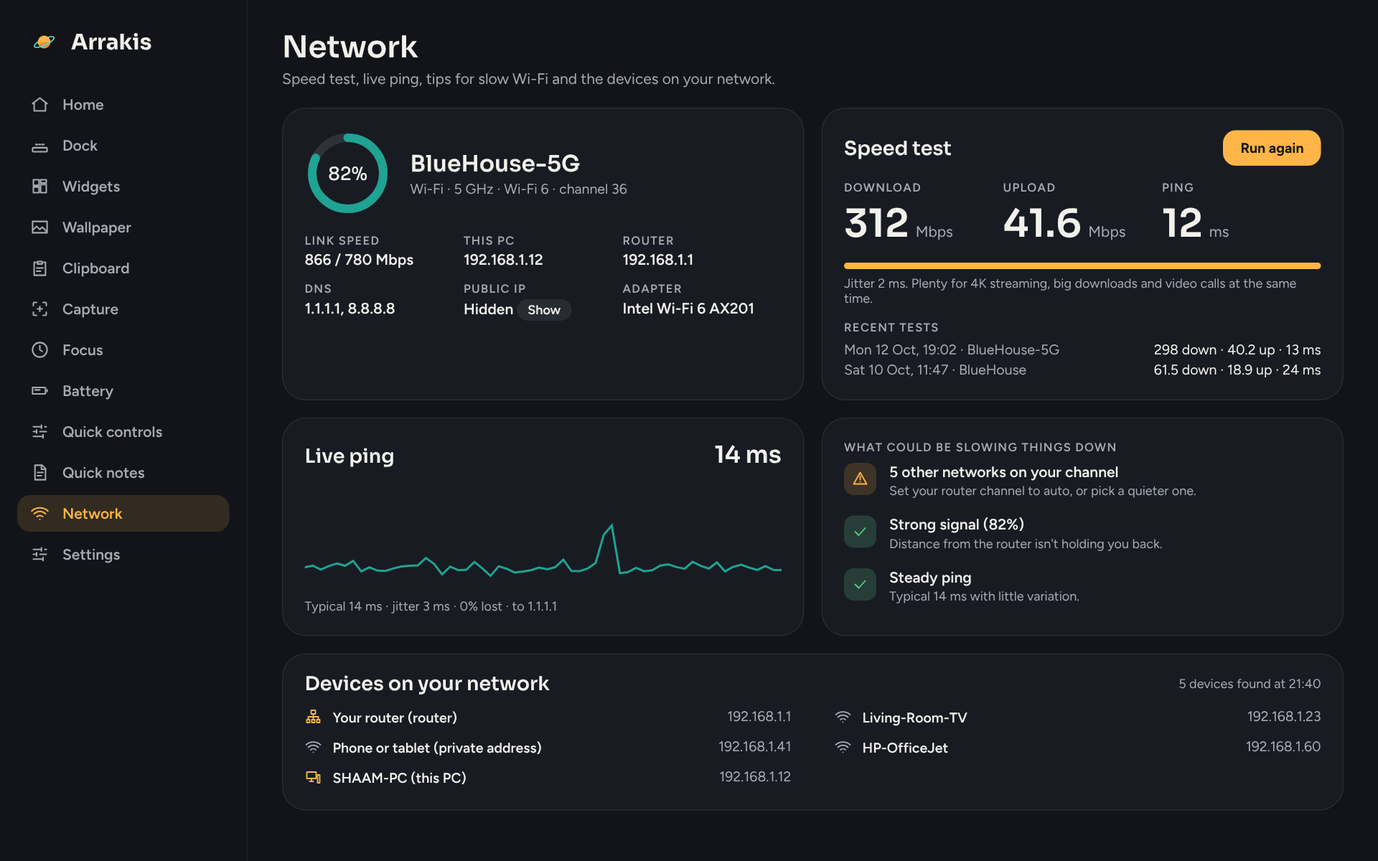
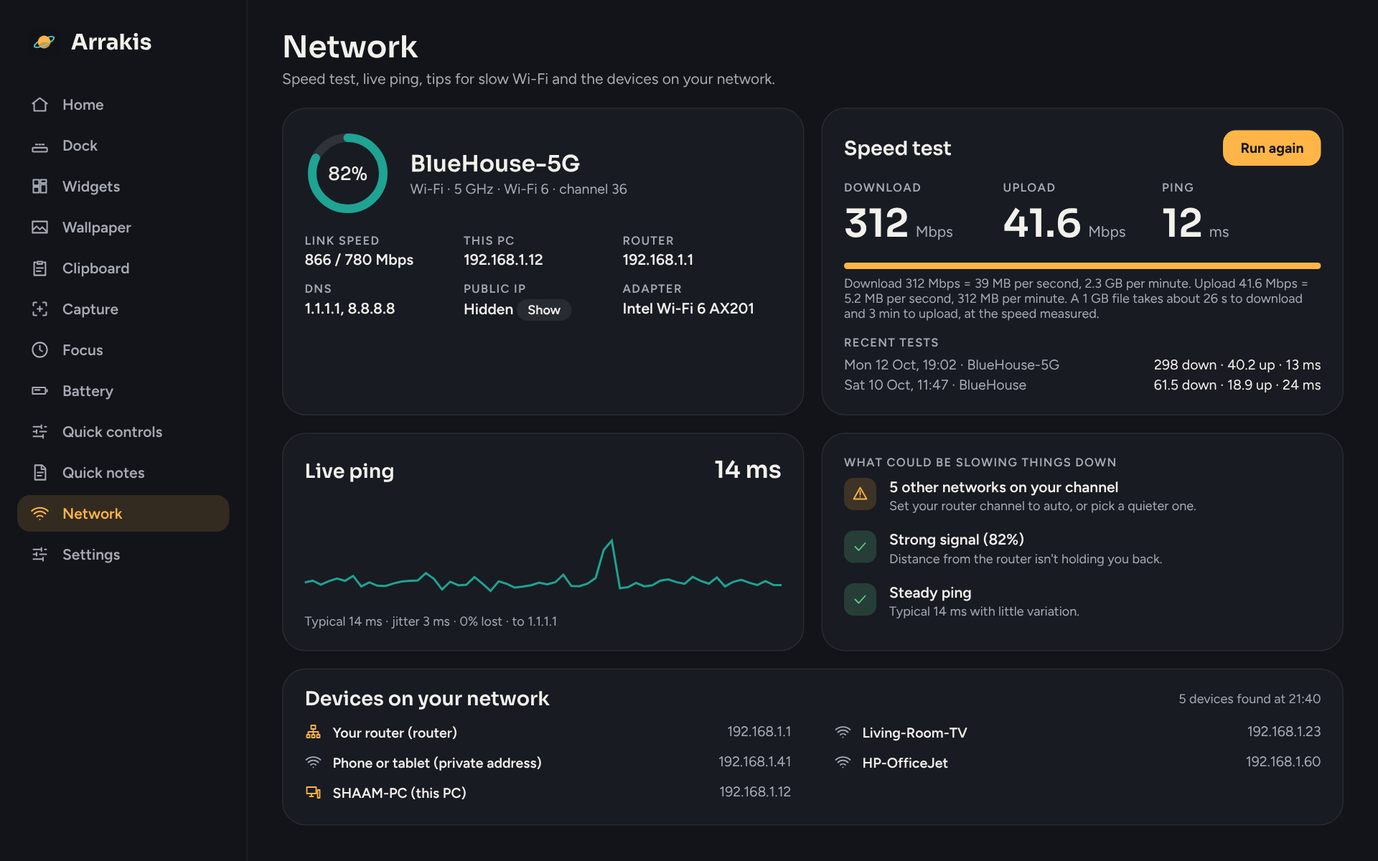
Arrakis 1.4.0: smoother dock with styles, themes and positions; taskbar on every screen; Wallhaven; notes as files; real speed test rates

diff --git a/docs/index.html b/docs/index.html
@@ -202,7 +202,7 @@ footer a{color:var(--muted);text-decoration:none;margin-left:16px}footer a:hover
 <header class="hero" id="top">
   <div class="glow" aria-hidden="true"></div>
   <div class="wrap">
-    <a class="badge" href="#new"><span>New in 1.3</span>Quick controls, notes and network tools</a>
+    <a class="badge" href="#new"><span>New in 1.4</span>A smoother dock, five styles and Wallhaven</a>
     <h1>Your whole desktop,<br><span class="grad">finally yours.</span></h1>
     <p class="lead">A dock, desktop widgets, a wallpaper that follows the sun and the weather, a clipboard with snippets, a full screenshot studio, a focus timer, battery health, quick controls, quick notes and network tools, with a command bar to reach it all. For Windows 10 and 11. Switch on only what you want.</p>
     <div class="cta">
@@ -273,8 +273,8 @@ footer a{color:var(--muted);text-decoration:none;margin-left:16px}footer a:hover
       <div class="frame"><img src="images/hub.png" width="1920" height="1200" alt="The Arrakis hub with a card and switch for each module"></div>
     </div>
     <div class="panel" role="tabpanel" id="p-dock" aria-labelledby="t-dock" hidden>
-      <div><h3>Dock</h3><p>Pinned and open apps that magnify as you glide across them. Rest on one to see live previews of its windows.</p>
-        <ul><li>Window previews and window counts</li><li>Folder stacks, starting with Downloads</li><li>Drag anything on to pin it</li><li>A dock on every screen if you like</li><li>Can replace the taskbar, and always gives it back</li></ul></div>
+      <div><h3>Dock</h3><p>Pinned and open apps that glide smoothly as you move across them. Rest on one to see live previews of its windows.</p>
+        <ul><li>Five styles, six themes, bottom, left or right</li><li>Magnify, Zoom, Lift, or no motion at all</li><li>Window previews, counts and folder stacks</li><li>A dock on every screen</li><li>Replaces the taskbar on every screen, and always gives it back</li></ul></div>
       <div class="frame"><img src="images/dock.png" width="1920" height="1200" alt="The dock with live previews of two browser windows and the Downloads folder stack open" loading="lazy"></div>
     </div>
     <div class="panel" role="tabpanel" id="p-widgets" aria-labelledby="t-widgets" hidden>
@@ -285,7 +285,7 @@ footer a{color:var(--muted);text-decoration:none;margin-left:16px}footer a:hover
     </div>
     <div class="panel" role="tabpanel" id="p-wall" aria-labelledby="t-wall" hidden>
       <div><h3>Wallpaper</h3><p>Dawn, day, sunset and night scenes drawn at your screen's exact size, changing with real sunrise and sunset where you live.</p>
-        <ul><li>Rain, snow, fog and storms when it's happening outside</li><li>A sun that moves across the sky</li><li>Or your own photos, or Bing's photo of the day</li><li>Every screen gets its own</li></ul></div>
+        <ul><li>Rain, snow, fog and storms when it's happening outside</li><li>A sun that moves across the sky</li><li>Thousands of wallpapers from Wallhaven, set in one click</li><li>Or your own photos, or Bing's photo of the day</li><li>Every screen gets its own</li></ul></div>
       <div class="frame"><img src="images/wallpaper.png" width="1920" height="1200" alt="The wallpaper page with dawn, day, sunset and night scenes" loading="lazy"></div>
     </div>
     <div class="panel" role="tabpanel" id="p-clip" aria-labelledby="t-clip" hidden>
@@ -320,7 +320,7 @@ footer a{color:var(--muted);text-decoration:none;margin-left:16px}footer a:hover
     </div>
     <div class="panel" role="tabpanel" id="p-notes" aria-labelledby="t-notes" hidden>
       <div><h3>Quick notes</h3><p>A fresh note from anywhere, saved as you type.</p>
-        <ul><li>Search every note, here or in the command bar</li><li>Six colours</li><li>Pin any note to the desktop as a sticky</li><li>Edit stickies right where they are</li></ul>
+        <ul><li>Search every note, here or in the command bar</li><li>Saved as text files in a folder you choose</li><li>Pin any note to the desktop as a sticky</li><li>Six colours</li></ul>
         <span class="shortcut"><kbd>Ctrl</kbd><kbd>Alt</kbd><kbd>N</kbd> new note</span></div>
       <div class="frame"><img src="images/notes.png" width="1920" height="1200" alt="The Quick notes window with a note open and two stickies pinned on the desktop" loading="lazy"></div>
     </div>
@@ -336,8 +336,37 @@ footer a{color:var(--muted);text-decoration:none;margin-left:16px}footer a:hover
 <section id="new">
   <div class="wrap">
     <div class="center reveal">
-      <p class="kicker">New in 1.3</p>
-      <h2>Three new modules.</h2>
+      <p class="kicker">New in 1.4</p>
+      <h2>A dock that feels right.</h2>
+      <p class="intro">Rebuilt to glide smoothly, with styles, themes and positions to make it yours. Plus Wallhaven wallpapers, notes as files, and a taskbar fix for multiple screens.</p>
+    </div>
+
+    <div class="frame reveal" style="margin-top:36px"><img src="images/dock-styles.png" width="1920" height="1200" alt="Eight dock looks: floating with magnify, minimal pill, islands, edge bar, compact bar, a light dock on the left, an accent dock on the right and a clear dock" loading="lazy"></div>
+
+    <div class="toolgrid reveal">
+      <div><h3>Smooth</h3><p>Icons ease in and out every frame and grow on your graphics card. Or switch motion off entirely.</p></div>
+      <div><h3>Your style</h3><p>Floating, Minimal pill, Islands, Edge bar or Compact bar. Dark, light, solid, clear or accent. Bottom, left or right.</p></div>
+      <div><h3>Every screen</h3><p>Hide the taskbar on each screen with a dock, with maximised windows using the full screen. Put it back in one click.</p></div>
+    </div>
+
+    <div class="studio-grid reveal">
+      <div class="studio-copy">
+        <h3>Wallhaven, built in</h3>
+        <p>Scroll through thousands of wallpapers right on the Wallpaper page, and set one on every screen, or just one, in a click.</p>
+        <ul class="ticks"><li>Top, Hot, Latest, Random or search</li><li>Only ones that fit your screen</li><li>A popular new one each day, if you like</li><li>Safe for work, no account needed</li></ul>
+      </div>
+      <div class="frame"><img src="images/wallhaven.png" width="1920" height="1200" alt="The Wallhaven gallery on the Wallpaper page" loading="lazy"></div>
+    </div>
+
+    <div class="toolgrid reveal">
+      <div><h3>Notes as files</h3><p>Every Quick note is saved as a .txt file in a folder you choose, like OneDrive. One click opens it.</p></div>
+      <div><h3>Real speeds</h3><p>Speed test results in MB per second and GB per minute, and how long a 1 GB file takes.</p></div>
+      <div><h3>Updates itself</h3><p>Already on 1.3? Arrakis installs 1.4 for you the next time it starts.</p></div>
+    </div>
+
+    <div class="center reveal" style="margin-top:96px">
+      <p class="kicker">Added in 1.3</p>
+      <h2 style="font-size:clamp(26px,3.4vw,36px)">Three new modules.</h2>
       <p class="intro">Quick controls, Quick notes and Network. Each one replaces a trip into Windows Settings or another app.</p>
     </div>
 
@@ -505,9 +534,9 @@ footer a{color:var(--muted);text-decoration:none;margin-left:16px}footer a:hover
 
     <div style="max-width:760px;margin:80px auto 0" class="reveal">
       <h2 class="center" style="font-size:clamp(26px,3.4vw,36px);margin-bottom:24px">Questions</h2>
-      <details><summary>Will it mess up my taskbar?</summary><p>Only if you ask it to hide it, and it always puts it back when Arrakis closes. If anything goes wrong, Start &gt; Arrakis &gt; Restore Windows taskbar brings it straight back.</p></details>
+      <details><summary>Will it mess up my taskbar?</summary><p>Only if you ask it to hide it, and only on screens that have a dock. It always puts it back when Arrakis closes, and Arrakis &gt; Dock &gt; Put the taskbar back does it in one click. If anything goes wrong, Start &gt; Arrakis &gt; Restore Windows taskbar brings it straight back.</p></details>
       <details><summary>Does it slow my PC down?</summary><p>Modules you switch off don't run at all, and the hub shows exactly how much memory Arrakis is using.</p></details>
-      <details><summary>What does it send over the internet?</summary><p>Only what you switch on: the weather (from Open-Meteo, if you set a city), Bing's photo of the day, your calendar link, stock prices and news headlines if you add those widgets, a speed test when you run one, and an update check on GitHub, which you can switch off. Nothing about you is sent anywhere.</p></details>
+      <details><summary>What does it send over the internet?</summary><p>Only what you switch on: the weather (from Open-Meteo, if you set a city), Bing's photo of the day, your calendar link, stock prices and news headlines if you add those widgets, a speed test when you run one, Wallhaven wallpapers when you browse them, and an update check on GitHub, which you can switch off. Nothing about you is sent anywhere.</p></details>
       <details><summary>How does clipboard sync work?</summary><p>Pick a folder both PCs can see, like OneDrive or Dropbox, and the same password on each. Your history is encrypted on your PC before it's written there, and card numbers and passwords are never synced.</p></details>
       <details><summary>How do updates work?</summary><p>Arrakis checks GitHub when it starts. If there's a new version it installs it quietly and reopens, unless you're in a focus session. You can turn this off in Settings.</p></details>
       <details><summary>How do I uninstall it?</summary><p>Settings &gt; Apps, like any other app. Your settings stay in <code>%AppData%\Arrakis</code> in case you come back; delete that folder to remove them too.</p></details>

diff --git a/src/Arrakis/Modules/Dock.cs b/src/Arrakis/Modules/Dock.cs
@@ -99,7 +99,7 @@ namespace Arrakis.Modules
             D.HideTaskbar = false;
             Settings.Save();
             if (IsRunning) ApplyTaskbar(); else TaskbarManager.Restore();
-            TaskbarManager.EmergencyRestore();
+            if (!IsRunning || !D.ReserveSpace) TaskbarManager.EmergencyRestore();
             foreach (var w in _windows) w.Reposition();
         }
 
@@ -996,7 +996,7 @@ namespace Arrakis.Modules
                 // A band from the edge of the screen out past the grown icons, so the dock doesn't flicker between icons.
                 double outward = S.Position == "Left" ? across - thick : S.Position == "Right" ? -across : -across;
                 double inward = S.Position == "Left" ? -across : S.Position == "Right" ? across - thick : across - thick;
-                bool inBand = outward <= (_hovering ? Headroom : 4) && inward <= 30 && along >= -size * 0.6 && along <= len + size * 0.6 && !_hidden;
+                bool inBand = outward <= (_hovering ? Headroom : 18) && inward <= 30 && along >= -size * 0.6 && along <= len + size * 0.6 && !_hidden;
                 if (inBand) anyHover = true;
                 // Map the mouse into un-magnified coordinates by its fraction along the dock.
                 double baseAlong = len > 0 ? (along < 0 ? along : along > len ? isl.BaseLength + (along - len) : along / len * isl.BaseLength) : along;

diff --git a/docs/USER-GUIDE.md b/docs/USER-GUIDE.md
@@ -86,7 +86,7 @@ If Alt+Space is already used by another app, pick a different shortcut in Arraki
 
 <img src="images/dock.png" width="760" alt="The dock">
 
-The dock sits at the bottom of the screen and shows:
+The dock sits at the bottom of the screen (or the left or right, if you choose) and shows:
 
 - the **Arrakis button** on the left: click it to open the Start menu, right-click it to open the hub;
 - your **pinned apps**;
@@ -109,17 +109,42 @@ The dock sits at the bottom of the screen and shows:
 Apps with more than one window open show a small bar with the count under the icon instead of a dot.
 **Downloads** is added as a folder stack the first time you run Arrakis. Right-click a stack to open or unpin it.
 
-**Settings (Arrakis > Dock)**
+Right-click any icon > **Dock settings...** to jump straight to them.
 
-- **Style**: *Floating glass* (magnifies on hover), *Minimal pill* (no background until you hover) or *Edge bar*
-  (full width, like the classic taskbar).
-- **Hide the Windows taskbar**: use the dock instead. The taskbar always comes back when Arrakis exits.
-- **Get out of the way**: the dock slides down when a window is maximised or full screen. Push the mouse to the
-  very bottom of the screen to bring it back.
-- **Magnify on hover**, **Live activities** and **Icon size**.
-- **Window previews** and **Window counts**: both on to start with.
-- **A dock on every screen**: each monitor gets its own dock, showing the windows that are on that screen.
-- **Pinned apps** and **Folders**: remove them, or **Pin a program...** and **Add a folder...**.
+<img src="images/dock-styles.png" width="760" alt="Dock styles and themes">
+
+**Look (Arrakis > Dock)**
+
+| Setting | Choices |
+|---|---|
+| Style | *Floating* (rounded, just above the edge), *Minimal pill* (no background until you hover), *Islands* (pinned apps, open apps and folders in separate groups), *Edge bar* (full width, flush to the edge) and *Compact bar* (slim, smaller icons, like the classic taskbar) |
+| Position | Bottom, Left or Right |
+| Theme | *Match Arrakis* (follows your light or dark setting), *Dark glass*, *Light glass*, *Solid*, *Clear* and *Accent* (tinted with your accent colour) |
+| See-through | How much of your wallpaper shows through |
+| Icon size | 32 to 72 pixels |
+| Dividers | A thin line between pinned apps, open apps and folders |
+
+**Motion**
+
+- **When the mouse is over an icon**: *Magnify* (icons grow and spread apart, like on a Mac), *Zoom* (the icon under the
+  mouse grows in place), *Lift* (icons rise a little) or *None*. **How much** sets the size for Magnify and Zoom.
+- **Smooth animations**: on, everything eases in and out. Off, everything changes instantly with no movement.
+- **Get out of the way**: the dock slides away when a window is maximised or full screen on that screen. Push the mouse
+  against that edge of the screen to bring it back.
+
+**Taskbar and screens**
+
+- **Hide the Windows taskbar**: use the dock instead. The taskbar is hidden only on screens that have a dock, and
+  maximised windows then use the whole screen. It always comes back when Arrakis exits.
+- **Put the taskbar back**: brings the Windows taskbar back on every screen straight away (and turns the switch above off).
+  The tray menu has the same option, and so does Start > Arrakis > Restore Windows taskbar, which works even if Arrakis isn't running.
+- **A dock on every screen**: each monitor gets its own dock, showing the windows that are on that screen. With the
+  taskbar hidden, it's hidden on all of them.
+- **Keep windows clear of the dock**: maximised windows stop at the dock instead of going underneath it (the dock then
+  doesn't need to slide away).
+
+**Features**: Live activities, Window previews and Window counts. Underneath are your **Pinned apps** and **Folder stacks**:
+remove them, or **Pin a program...** and **Pin a folder...**.
 
 ## Widgets
 
@@ -177,6 +202,8 @@ Wallpaper is **off** until you switch it on, so Arrakis never changes your deskt
 
 Pick a **Mode**:
 
+- **Wallhaven: the one you picked** and **Wallhaven: a popular one each day** (see below).
+
 - **Follow the sun**: dawn, day, sunset and night scenes change with the real sunrise and sunset where you are.
   Arrakis uses the city you set for the weather widget (or Birmingham, UK until you set one).
 - **Dawn**, **Day**, **Sunset** or **Night**: keep one scene.
@@ -191,6 +218,28 @@ With the scenes you can also switch on:
 
 Every screen gets a picture drawn at its own size, and with your photos each screen gets a different one.
 When you switch Wallpaper off (or click **Put my old wallpaper back**), your original wallpaper comes back.
+
+### Wallhaven
+
+<img src="images/wallhaven.png" width="760" alt="The Wallhaven gallery">
+
+Further down the Wallpaper page is a gallery of wallpapers from [wallhaven.cc](https://wallhaven.cc). Scroll and more load as you go.
+
+- **Top**, with **Today**, **This week**, **This month** or **This year**; **Hot**; **Latest**; or **Random**.
+- **Search**: type something like *mountains* or *city night* and press Enter.
+- **General**, **Anime** and **People** turn those categories on and off. **Fits my screen** only shows wallpapers at
+  least as big as your main screen, in the same shape.
+- Hover a wallpaper for its size and favourites. **Click it** for a big preview, its colours, and:
+  - **Set as wallpaper**: on every screen.
+  - **Set on this screen**: with more than one screen, pick one from the list.
+  - **Save a copy**: into Pictures\Wallhaven.
+  - **Open on Wallhaven**: its page on the website.
+
+Setting one switches the Mode to *Wallhaven: the one you picked*. Pictures you set are kept in the Arrakis settings
+folder (the 30 most recent). **Wallhaven: a popular one each day** picks something new from the week's top list every morning.
+
+Only safe-for-work wallpapers are shown. You don't need an account. If you have one, paste your **API key** (wallhaven.cc >
+Settings > Account) into the box under the gallery and click **Save key**; it's stored encrypted for your Windows account.
 
 ## Clipboard
 
@@ -431,7 +480,19 @@ Press **Ctrl+Alt+N** in any app. The notes window opens with a fresh note ready 
 - **Copy** puts the whole note on the clipboard. **Delete** removes it (and its sticky).
 - **Esc** closes the window. Empty notes are tidied away when you close it.
 
-Notes are kept in `notes.json` in the Arrakis settings folder, only on this PC, and they're included when you export a backup.
+**Notes as text files**: every note is also saved as a `.txt` file, named after its first line, in **Documents\Arrakis Notes**.
+It's kept up to date as you type, and renamed if you change the first line. In Arrakis > Quick notes you can:
+
+- **Change folder...** to save them anywhere, such as a OneDrive or Dropbox folder.
+- Click the **folder button** to open the folder (there's one in the notes window too).
+- **Use the default** to go back to Documents\Arrakis Notes.
+- Turn **Save notes as text files** off if you'd rather they only live inside Arrakis.
+
+Text files (`.txt` or `.md`) you put in the folder show up as notes the next time you open Quick notes, keeping their
+file names. If you edit a note's file in another app, the change comes back into Arrakis. Deleting a note sends its file
+to the Recycle Bin.
+
+Notes are also kept in `notes.json` in the Arrakis settings folder and included when you export a backup.
 
 ## Network
 
@@ -442,7 +503,8 @@ link speed to the router, this PC's address, the router's address and DNS. Click
 On a cable it shows the link speed instead.
 
 **Speed test**: click **Run speed test**. It measures ping and jitter, then download and upload, using Cloudflare's
-public speed test servers. It takes about 20 seconds and can use a few hundred MB on a fast connection, so be careful
+public speed test servers. Underneath, it says what the result means for files: 8 megabits make a megabyte, so
+312 Mbps is about 39 MB per second, or 2.3 GB per minute, and a 1 GB file takes about 26 seconds. It takes about 20 seconds and can use a few hundred MB on a fast connection, so be careful
 on a mobile hotspot. Your last results are listed underneath, with the network you were on. You can also start one
 from the command bar or the tray menu.
 

diff --git a/README.md b/README.md
@@ -25,9 +25,9 @@ Arrakis is one app with ten modules. Each one has its own switch, so it only doe
 
 | Module | What it does | Shortcut |
 |---|---|---|
-| **Dock** | A floating dock for your apps, with window previews, folder stacks and a dock on every screen. Can replace the taskbar. | Always on |
+| **Dock** | A smooth dock for your apps: five styles, six themes, bottom, left or right, window previews, folder stacks and a dock on every screen. Can replace the taskbar. | Always on |
 | **Widgets** | 16 widgets, from clocks, weather and your calendar to to-dos, stocks, headlines, a photo frame and ping. Saved layouts and meeting alerts. | Ctrl+Alt+W |
-| **Wallpaper** | Scenes that follow the real sun and the weather outside, your own photos, or Bing's photo of the day. On every screen. | Automatic |
+| **Wallpaper** | Scenes that follow the real sun and the weather outside, your own photos, Bing's photo of the day, or thousands of wallpapers from Wallhaven. On every screen. | Automatic |
 | **Clipboard** | Everything you copy, searchable. Snippets with shortcodes, paste as UPPERCASE and more, collections, encrypted sync between PCs. | Ctrl+Alt+V |
 | **Capture** | A full screenshot tool: area, window, full screen, all screens or delayed. Edit with 14 tools, effects and frames, then copy, save, print or pin. | Ctrl+Alt+S |
 | **Focus** | A timer pill that silences notifications, keeps distracting apps away, can start from your calendar and gives you a weekly report. | Ctrl+Alt+F |
@@ -64,15 +64,24 @@ Pick Dark, Light or Match Windows, and one of six accent colours, in Arrakis > S
 
 ### Dock
 
-Your pinned apps and everything that's open. Icons magnify as you move across them.
-Click to switch, click again to minimise, right-click to pin or close. What's playing and your focus timer sit
-next to it. Pick from three styles, and hide the Windows taskbar if you want the dock to replace it.
+Your pinned apps and everything that's open. Click to switch, click again to minimise, right-click to pin or close.
+What's playing and your focus timer sit next to it.
+
+- **Smooth**: icons ease in and out every frame and are drawn by your graphics card, so gliding across the dock doesn't stutter.
+- **Hover effects**: Magnify (icons grow and spread apart), Zoom (just the one under the mouse), Lift, or None. Turn **Smooth animations** off and nothing moves at all.
+- **Five styles**: Floating, Minimal pill, Islands (pinned, open and folders in separate groups), Edge bar and Compact bar.
+- **Six themes**: Match Arrakis, Dark glass, Light glass, Solid, Clear and Accent, with a see-through slider.
+- **Bottom, left or right** of the screen.
+- **Replace the taskbar**: hide the Windows taskbar on every screen that has a dock. **Put the taskbar back** is one click away in Arrakis > Dock, the tray menu and the Start menu.
+- **Keep windows clear of the dock**: maximised windows stop at the dock instead of going underneath.
 
 - **Window previews**: rest the mouse on an open app to see live pictures of its windows. Click one to switch, or close it from there.
 - **Window counts**: apps with more than one window show how many under the icon.
 - **Folder stacks**: Downloads is there to start with. Click it to see the newest files, and drop any folder on the dock to add another.
 - **Drag to pin**: drop an app, shortcut or file on the dock to pin it.
 - **Every screen**: turn on a dock for each monitor, each showing the windows on that screen.
+
+<img src="docs/images/dock-styles.png" alt="Eight dock looks: floating with magnify, minimal pill, islands, edge bar, compact bar, a light dock on the left, an accent dock on the right and a clear dock" width="900">
 
 <img src="docs/images/dock.png" alt="The dock with live previews of two browser windows and the Downloads folder stack open" width="900">
 
@@ -103,6 +112,14 @@ Prefer your own pictures? Point it at a folder for a slideshow, or choose a phot
 Your original wallpaper comes back when you turn it off.
 
 <img src="docs/images/wallpaper.png" alt="The wallpaper page with a large preview and the dawn, day, sunset and night scenes" width="900">
+
+**Wallhaven**: scroll through thousands of wallpapers from [wallhaven.cc](https://wallhaven.cc) right on the Wallpaper page.
+Pick Top (today, this week, month or year), Hot, Latest or Random, or search. Filter by General, Anime and People, and
+only show ones that fit your screen. Click one for a bigger preview, then **Set as wallpaper** for every screen or just one.
+There's also a mode that picks a new popular wallpaper each day. Only safe-for-work wallpapers are shown, and you don't
+need an account; add your own Wallhaven API key in the settings to use your account's preferences.
+
+<img src="docs/images/wallhaven.png" alt="The Wallhaven gallery on the Wallpaper page, with Top, Hot, Latest and Random, time ranges, categories and a grid of wallpapers" width="900">
 
 ### Clipboard
 
@@ -187,11 +204,15 @@ Press **Ctrl+Alt+N** in any app and a fresh note is ready to type into. Notes sa
 searched in the notes window (**Ctrl+F**) or from the command bar. **Pin to desktop** turns a note into a sticky that you can
 edit right there with a double-click.
 
+Every note is also saved as a **.txt file**, named after its first line, in **Documents\Arrakis Notes** (or any folder you
+choose in Arrakis > Quick notes). Click the folder button to open it. Text files you drop into that folder show up as notes,
+and edits you make to them in another app come back into Arrakis.
+
 <img src="docs/images/notes.png" alt="The Quick notes window with a list of notes and a yellow note open, and two sticky notes pinned on the desktop" width="900">
 
 ### Network
 
-- **Speed test**: download, upload, ping and jitter, with a plain-English verdict and your recent results to compare.
+- **Speed test**: download, upload, ping and jitter, shown as real transfer rates too (for example, 312 Mbps is 39 MB per second, or 2.3 GB per minute) with how long a 1 GB file takes, and your recent results to compare.
 - **Live ping**: a graph of your connection over the last few minutes, with typical ping, jitter and packet loss. There's a **Ping widget** for the desktop too.
 - **What could be slowing things down**: weak signal, 2.4 GHz when 5 GHz is available, a crowded channel, a slow link, a cable stuck at 100 Mbps, high ping or dropped packets.
 - **Devices on your network**: your router, this PC, and every phone, TV, printer and speaker that answers.
@@ -238,6 +259,7 @@ Everything Arrakis stores stays on your PC. The only things it fetches from the 
 - your calendar, from the .ics link you give it, if you add one;
 - stock prices and news headlines, only if you add those widgets;
 - a speed test with Cloudflare's public speed test servers, only when you run one;
+- wallpapers from Wallhaven, only when you open the Wallpaper page or use a Wallhaven mode;
 - your public IP address, only when you click Show on the Network page;
 - a check for a newer version on GitHub, which you can switch off in Settings.
 

diff --git a/CHANGELOG.md b/CHANGELOG.md
@@ -1,5 +1,42 @@
 # What's new
 
+## 1.4.0 (13 October 2026)
+
+**Dock**
+- Much smoother: icons ease in and out every frame and grow on the graphics card, without the whole dock being redrawn.
+  The dock window is now only as big as it needs to be, and it no longer scans for windows while the mouse is on it.
+- Four hover effects: Magnify, Zoom, Lift or None, with a slider for how much.
+- **Smooth animations** switch: turn it off and nothing moves at all.
+- Five styles: Floating, Minimal pill, Islands, Edge bar and Compact bar.
+- Six themes: Match Arrakis, Dark glass, Light glass, Solid, Clear and Accent, plus a see-through slider.
+- Put the dock at the bottom, left or right of the screen.
+- Optional dividers between pinned apps, open apps and folders.
+- **Keep windows clear of the dock**: maximised windows stop at the dock.
+- Previews, folder stacks and menus open beside the dock when it's on the left or right.
+
+**Taskbar and multiple screens**
+- Hiding the taskbar now works properly on every screen. Each screen's space is managed separately, so maximised windows
+  fill the screen and the dock sits at the very edge, on every monitor.
+- The taskbar is only hidden on screens that have a dock, so no screen is left without one.
+- New **Put the taskbar back** button in Arrakis > Dock. Restore Windows taskbar in the Start menu now fixes every screen too.
+
+**Wallpaper**
+- Browse thousands of wallpapers from Wallhaven: Top, Hot, Latest, Random and search, with categories, time ranges and
+  a "Fits my screen" filter. Scroll to load more.
+- Click one for a big preview, then set it on every screen or just one, save a copy to Pictures, or open it on Wallhaven.
+- New mode: a popular Wallhaven wallpaper each day.
+- Optional Wallhaven API key, stored encrypted for your Windows account.
+
+**Quick notes**
+- Notes are saved as .txt files in a folder you choose (Documents\Arrakis Notes to start with), kept up to date as you type.
+- Folder button in the notes window and on the Quick notes page.
+- Text files added to the folder become notes, and edits made in other apps come back in.
+- Deleted notes go to the Recycle Bin.
+
+**Network**
+- The speed test now shows what the result means in transfer terms: MB per second, GB per minute and how long a 1 GB
+  file takes to download and upload.
+
 ## 1.3.0 (13 October 2026)
 
 Three new modules, so Arrakis now has ten.
